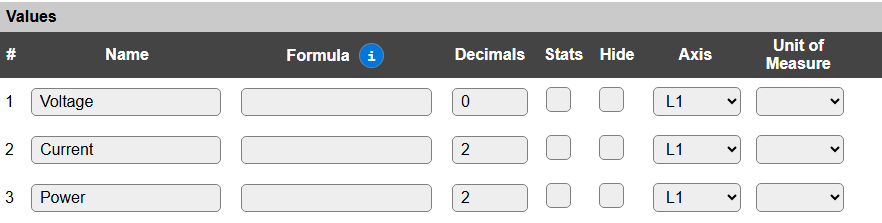
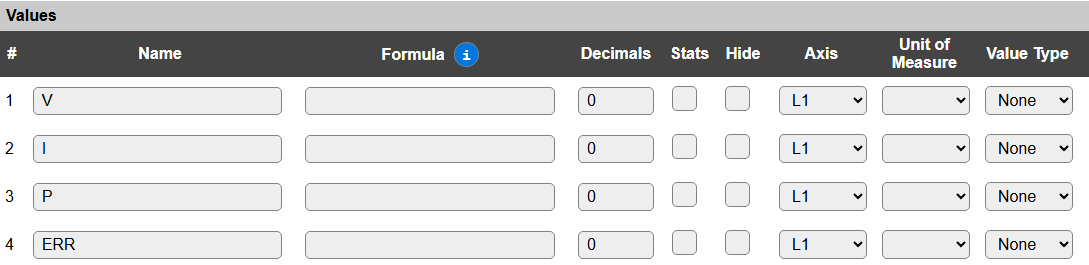
[Docs] Update docs for Value Type setting for selected plugins

diff --git a/docs/source/Plugin/_Plugin.rst b/docs/source/Plugin/_Plugin.rst
@@ -255,6 +255,19 @@ A list of 100+ Unit of Measure values is available (derived of what's supported 
 
 Displaying the Unit of Measure can be disabled by unchecking the **Show Unit of Measure** checkbox on the Tools/Advanced page.
 
+Value Type
+^^^^^^^^^^
+
+(Added: 2025/06/21)
+
+On selected builds and for some plugins only, the Value Type selection is available. This selection is available when either the type of value per Value field is selectable by the user, or can have too many options to determine explicitly.
+
+The options included here are all possible value types supported by ESPEasy that represent a *single* value, excluding options like Temp/Hum, Temp/Baro/Hum etc., and are used during the MQTT AutoDiscovery process. ``None`` indicates no value type is selected.
+
+Available options: ``Single, Switch, Dimmer, UInt32 (1x), String, Int32 (1x), UInt64 (1x), Int64 (1x),`` ``Double (1x), Analog, Temp, Hum, Lux, Distance, Direction, Dust PM2.5,``
+``Dust PM1.0, Dust PM10, Moisture, (e)CO2, GPS, UV, UV Index, IR, Weight, Voltage,`` ``Current, Power Usage, Power Factor, Apparent Power Usage, TVOC, Baro,``
+``Red, Green, Blue, Color temperature, Reactive Power, AQI, NOx, Switch (inv.)``
+
 |
 
 .. _Plugin List:
